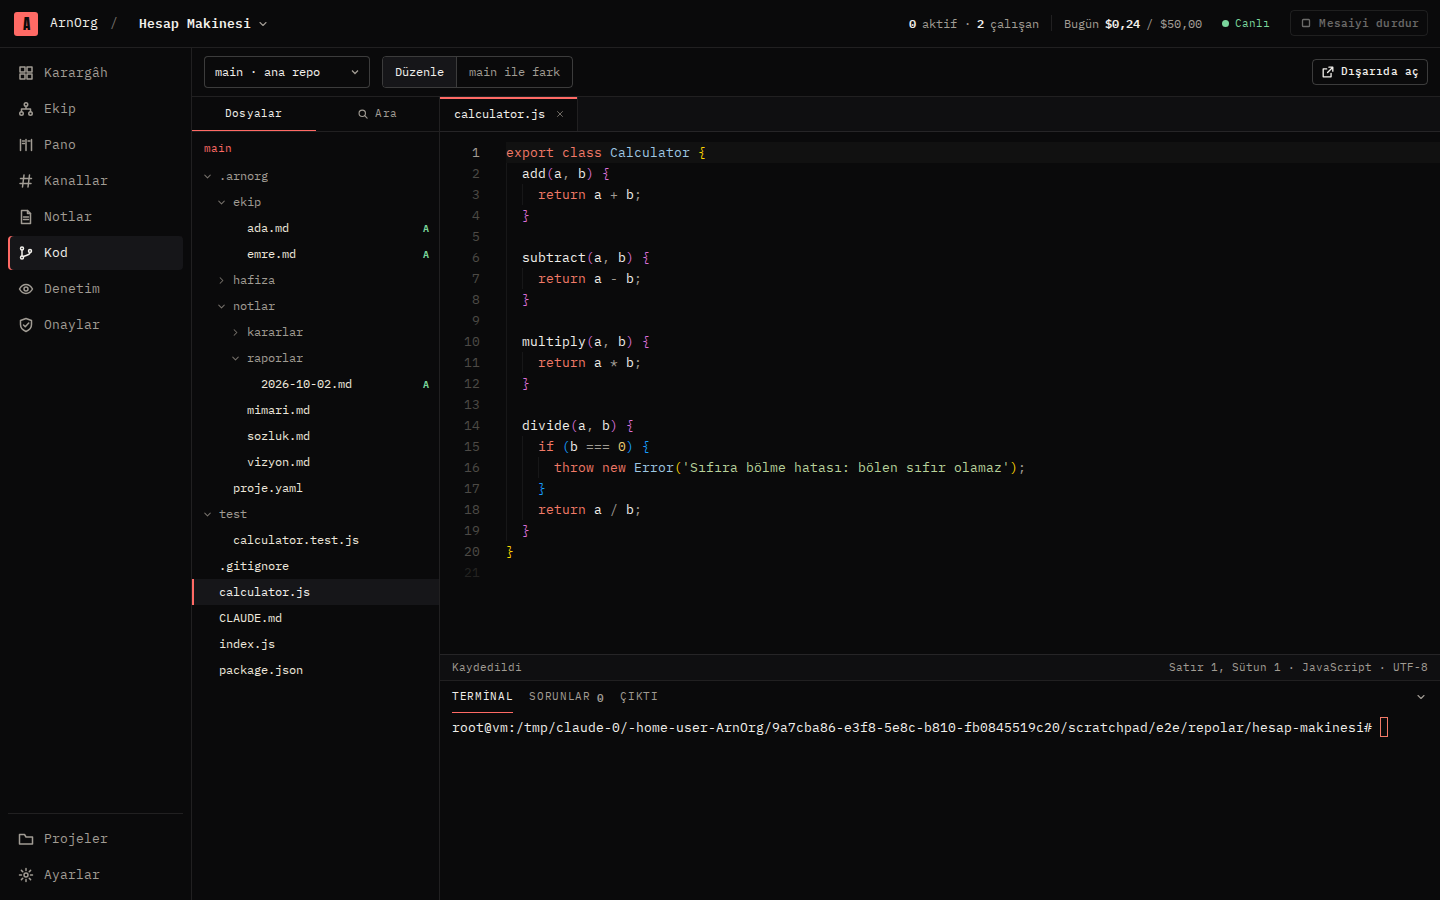
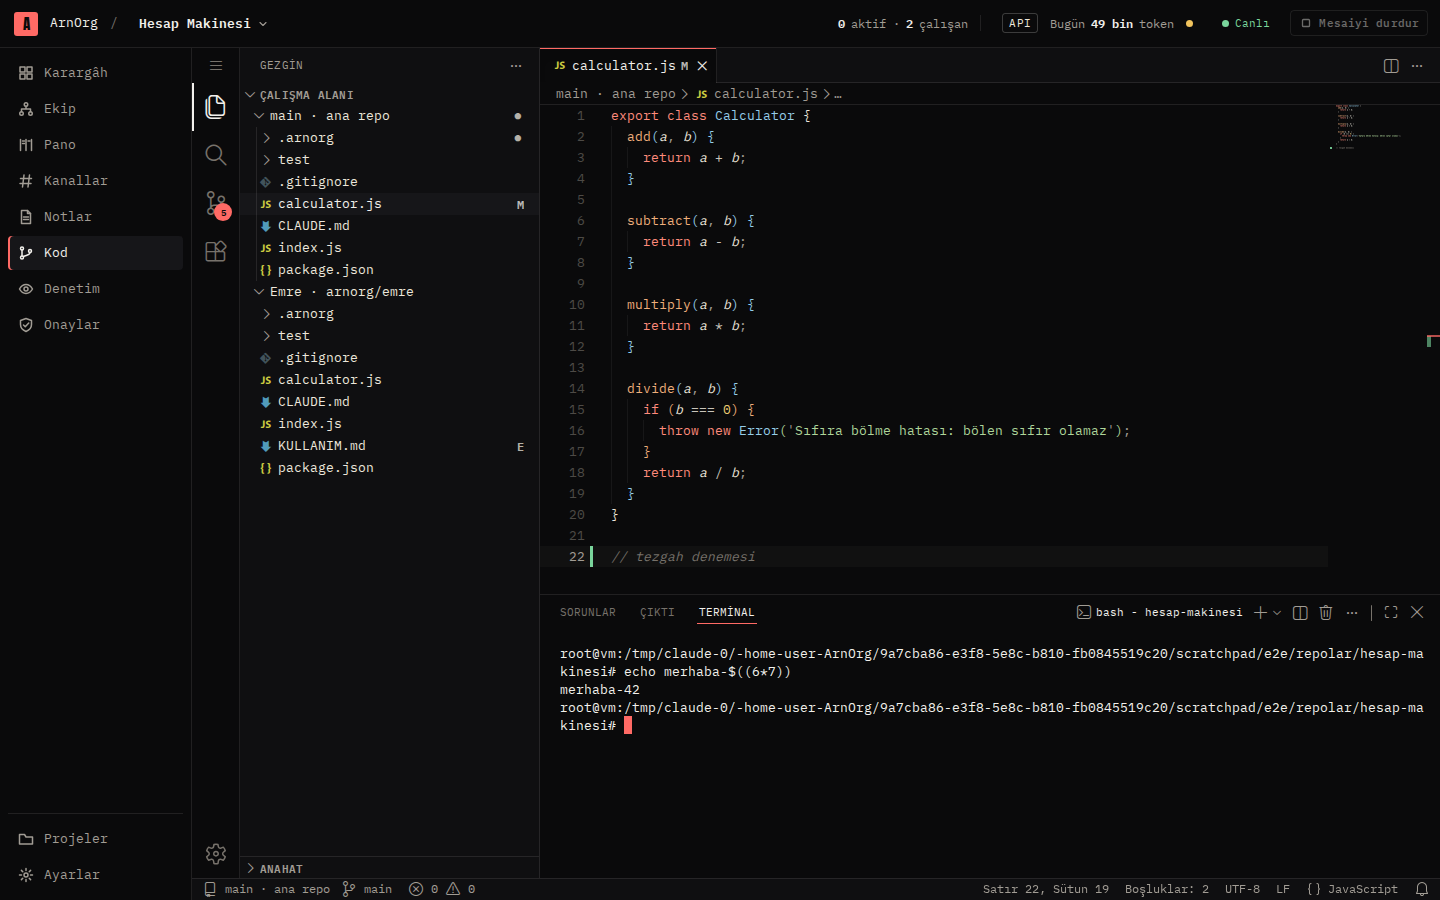
README: Kod ekranı VS Code tezgâhı ve yeni ekran görüntüsü

diff --git a/README.md b/README.md
@@ -24,7 +24,7 @@ Faz 0–2 tamam, Faz 3'ün bir kısmı çalışıyor. Uçtan uca doğrulandı: S
 | Ekip ve ajan paneli | ![Ekip](docs/gorseller/ekip.png) |
 | Kanallar | ![Kanallar](docs/gorseller/kanallar.png) |
 | Denetim | ![Denetim](docs/gorseller/denetim.png) |
-| Kod | ![Kod](docs/gorseller/kod.png) |
+| Kod (VS Code tezgâhı) | ![Kod](docs/gorseller/kod.png) |
 
 ## Çalıştırma
 
